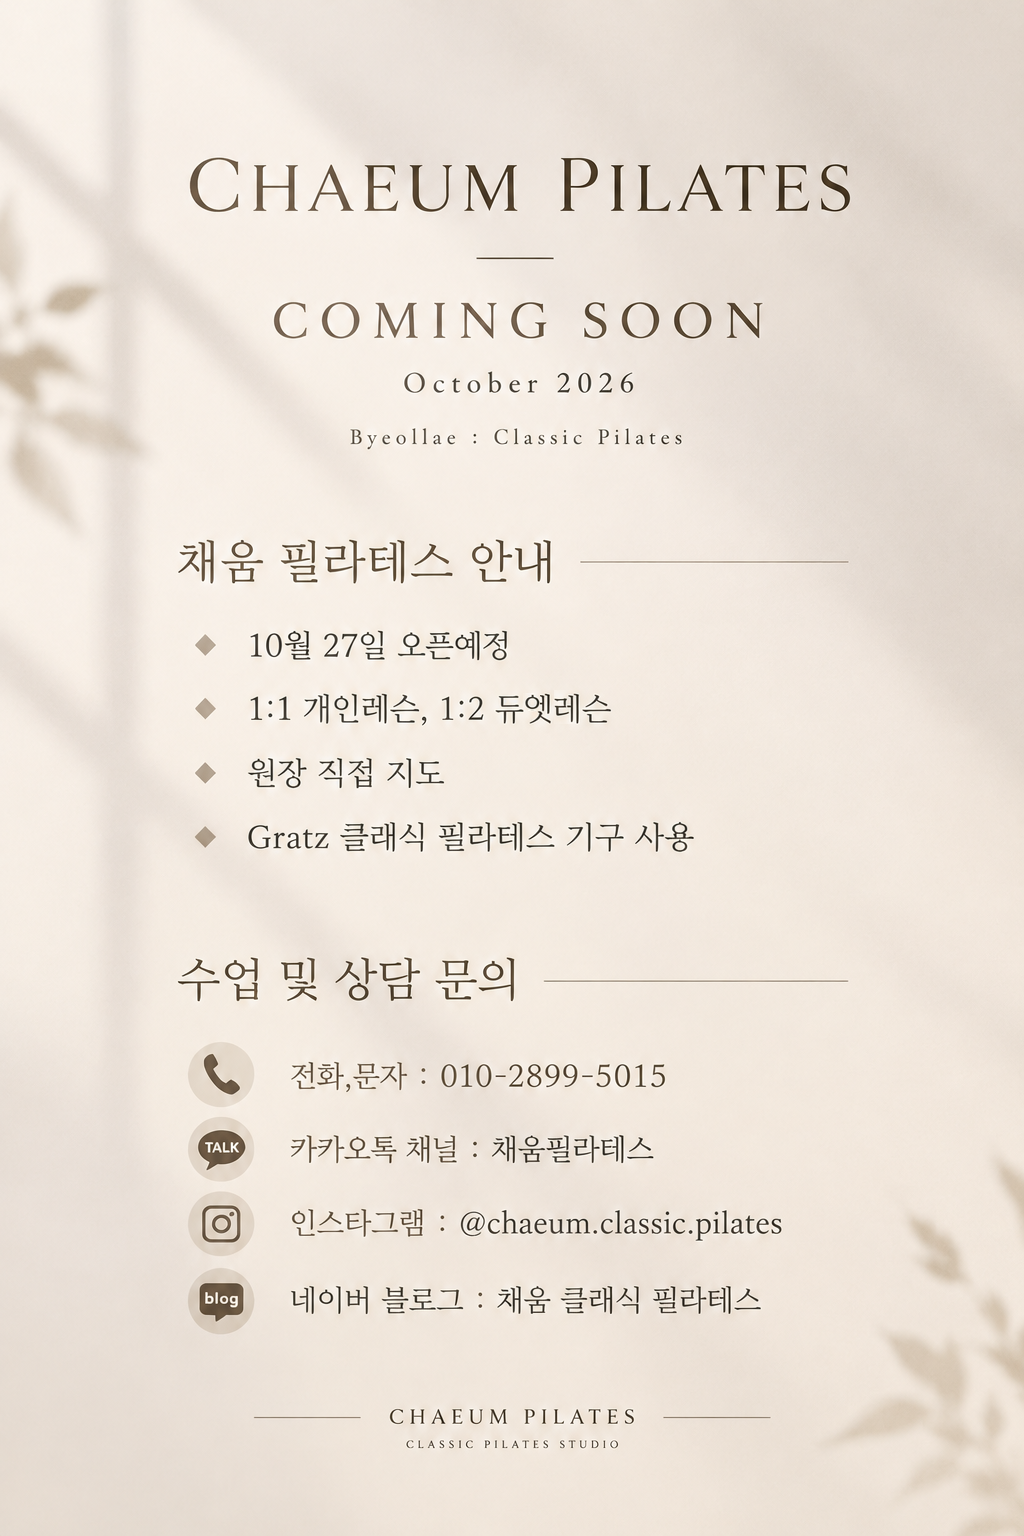
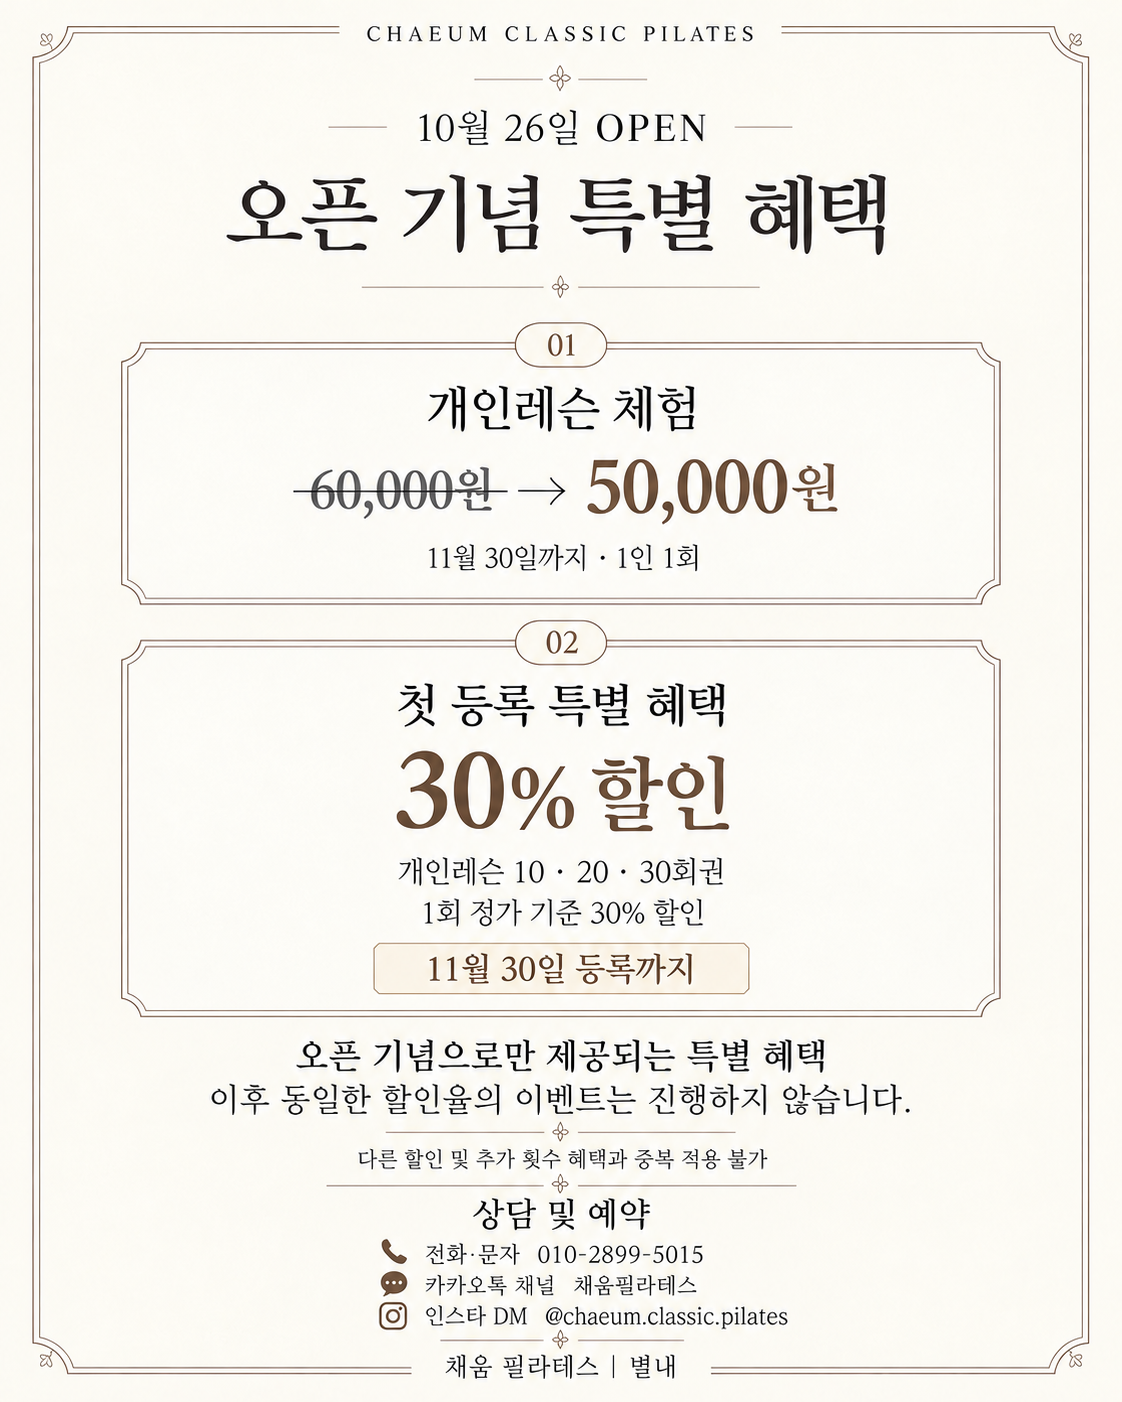
배너 추가 및 변경

diff --git a/index.html b/index.html
@@ -850,6 +850,15 @@
         <div class="swiper-wrapper">
           <div class="swiper-slide">
             <div class="container">
+              <div class="row align-items-center justify-content-center">
+                <div class="col-md-5">
+                  <img src="images/open.png" alt="채움 필라테스 오픈" class="img-fluid mb-3" style="object-fit:cover; width:100%; aspect-ratio:4/5;">
+                </div>
+              </div>
+            </div>
+          </div>
+          <div class="swiper-slide">
+            <div class="container">
               <div class="row align-items-center">
                   <div class="offset-md-1 col-md-5 order-md-2">
                       <img src="images/open_banner2.png" alt="채움 필라테스 오픈" class="img-fluid mb-3" style="object-fit:cover; width:100%; aspect-ratio:4/5;">
